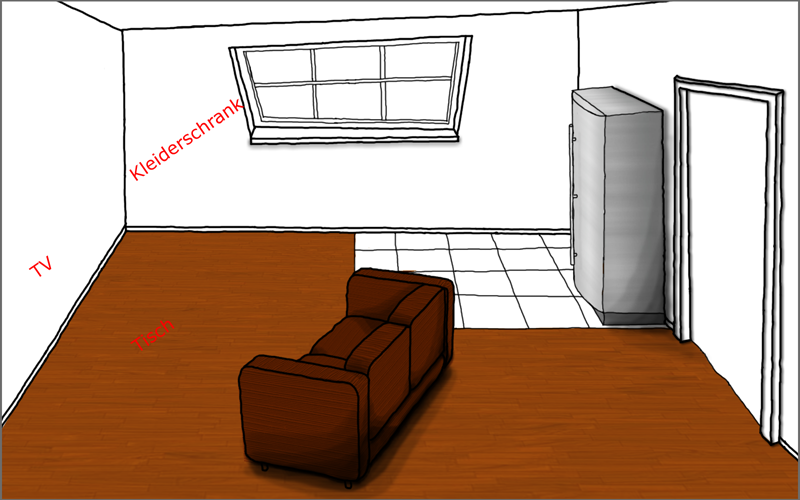
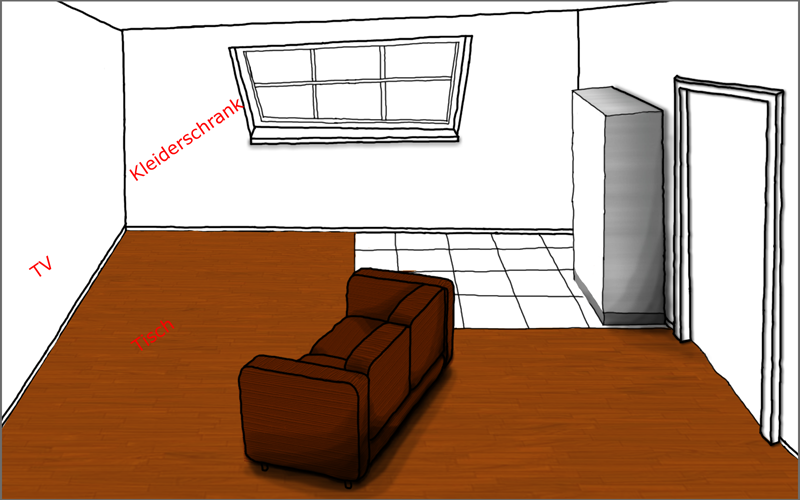
Kühlschrank opened Bild hinzugefügt und closed korrigiert. Sowie die Position und Größe des JLabels.

Changed region(s): [[0.6875, 0.18, 0.7812, 0.63], [0.1562, 0.45, 0.3125, 0.48], [0.3438, 0.45, 0.4375, 0.48]]

diff --git a/trunk/src/Game/GUI/Spielbereich.java b/trunk/src/Game/GUI/Spielbereich.java
@@ -64,7 +64,7 @@ public class Spielbereich extends JPanel implements MouseListener
 		
 		bilderInaktiv.add(new ImageIcon("files/gameImages/doorclosed.png"));
 		bilderInaktiv.add(new ImageIcon("files/gameImages/fridgeclosed.png"));
-		bilderAktiv.add(new ImageIcon("files/gameImages/null.png"));
+		bilderAktiv.add(new ImageIcon("files/gameImages/dooropen.png"));
 		bilderAktiv.add(new ImageIcon("files/gameImages/fridgeopen.png"));
 		
 		JLabel lblDoorHeader = new JLabel("Wohnung verlassen", SwingConstants.CENTER);
@@ -91,8 +91,8 @@ public class Spielbereich extends JPanel implements MouseListener
 		aktionsHeader.add(lblFridgeHeader);
 		
 		JLabel lblFridge = new JLabel(bilderInaktiv.get(1));
-		lblFridge.setSize(99, 237);
-		lblFridge.setLocation(566, 86);
+		lblFridge.setSize(144, 241);
+		lblFridge.setLocation(522, 85);
 		lblFridge.addMouseListener(this);
 		lblFridge.setOpaque(false);
 		this.add(lblFridge);
